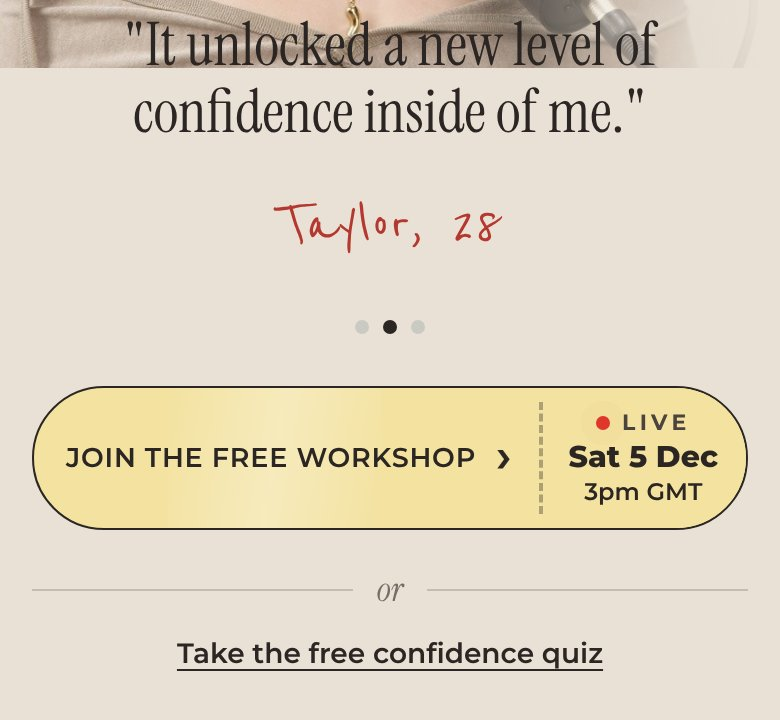
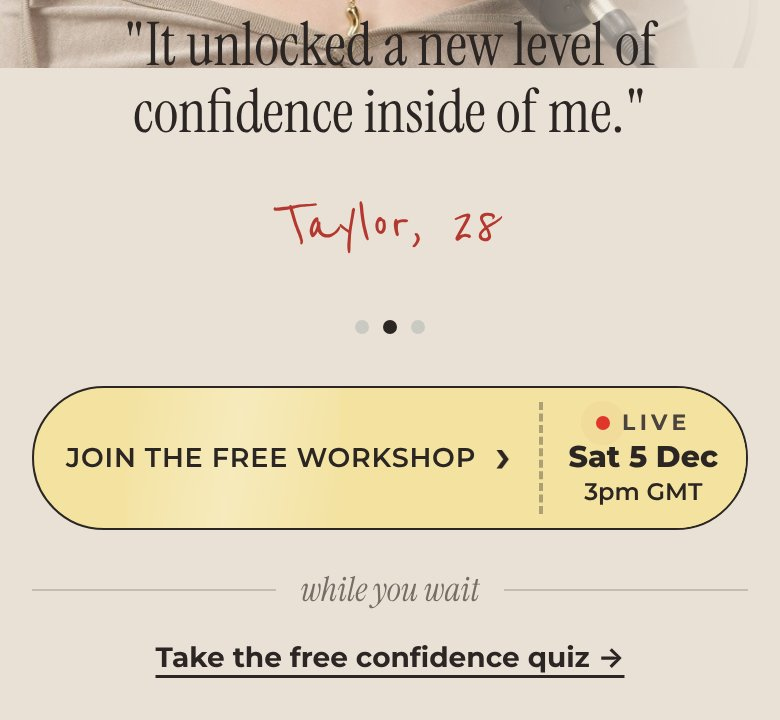
Make quiz link options clickable and word them as both, not either
Claude-Session: https://claude.ai/code/session_01CfTJkvUViTNRnxKTGyhTog

Changed region(s): [[0.1846, 0.8861, 0.8, 0.9472], [0.3692, 0.7944, 0.6154, 0.8556]]

diff --git a/quiz-link-options/index.html b/quiz-link-options/index.html
@@ -28,14 +28,14 @@ figcaption p{margin:6px 0 0;font-size:15px;color:var(--ink-2)}
 <body>
 <div class="wrap">
 <h1>Quiz link options <span>☆</span></h1>
-<p class="lede">Six ways to add a quiet quiz link under "Join the free workshop" at the top of the Rebirth site. Shown as they look on a phone.</p>
+<p class="lede">Six ways to add a quiet, clickable quiz link under "Join the free workshop" at the top of the Rebirth site. Each one is worded so she does both, the workshop and the quiz. Shown as they look on a phone.</p>
 <div class="grid">
-<figure><img src="option-1.jpg" alt="Option 1"><figcaption><h2><b>1</b>Quiet text link</h2><p>"Not sure where to start?" The most subtle option. Speaks to the woman who isn't ready for a live workshop.</p></figcaption></figure>
-<figure><img src="option-2.jpg" alt="Option 2"><figcaption><h2><b>2</b>Handwritten pen note</h2><p>Red pen and a hand-drawn arrow. Matches the journal feel best, and feels human.</p></figcaption></figure>
-<figure><img src="option-3.jpg" alt="Option 3"><figcaption><h2><b>3</b>Butter highlighter</h2><p>A soft highlighter swipe under the link. Ties into the brand's highlighter, and "2 mins" lowers the effort.</p></figcaption></figure>
-<figure><img src="option-4.jpg" alt="Option 4"><figcaption><h2><b>4</b>Small pill</h2><p>A small outlined tag. The most clickable on a phone, but slightly less subtle.</p></figcaption></figure>
-<figure><img src="option-5.jpg" alt="Option 5"><figcaption><h2><b>5</b>"or" divider</h2><p>A clear second path without competing with the workshop button.</p></figcaption></figure>
-<figure><img src="option-6.jpg" alt="Option 6"><figcaption><h2><b>6</b>Star and circled word</h2><p>The brand star, plus "quiz" circled in red pen like a note in her notebook.</p></figcaption></figure>
+<figure><img src="option-1.jpg" alt="Option 1"><figcaption><h2><b>1</b>Text link with arrow</h2><p>"Before you join, take the confidence quiz". Underlined with an arrow, so it reads as a link. The most subtle option.</p></figcaption></figure>
+<figure><img src="option-2.jpg" alt="Option 2"><figcaption><h2><b>2</b>Handwritten pen note</h2><p>Red pen and a hand-drawn arrow: "and find your Confidence Type". Matches the journal feel best.</p></figcaption></figure>
+<figure><img src="option-3.jpg" alt="Option 3"><figcaption><h2><b>3</b>Butter highlighter</h2><p>"Plus, take your confidence quiz" with a highlighter swipe and underline. Ties into the brand highlighter.</p></figcaption></figure>
+<figure><img src="option-4.jpg" alt="Option 4"><figcaption><h2><b>4</b>Small button</h2><p>A small butter button. The most obviously tappable on a phone, but slightly less subtle.</p></figcaption></figure>
+<figure><img src="option-5.jpg" alt="Option 5"><figcaption><h2><b>5</b>"while you wait" divider</h2><p>A divider that says "while you wait", so it reads as something to do before the workshop, not instead of it.</p></figcaption></figure>
+<figure><img src="option-6.jpg" alt="Option 6"><figcaption><h2><b>6</b>Star and circled word</h2><p>"Now take your confidence quiz", with the brand star, "quiz" circled in red pen and an arrow.</p></figcaption></figure>
 </div>
 </div>
 </body>
